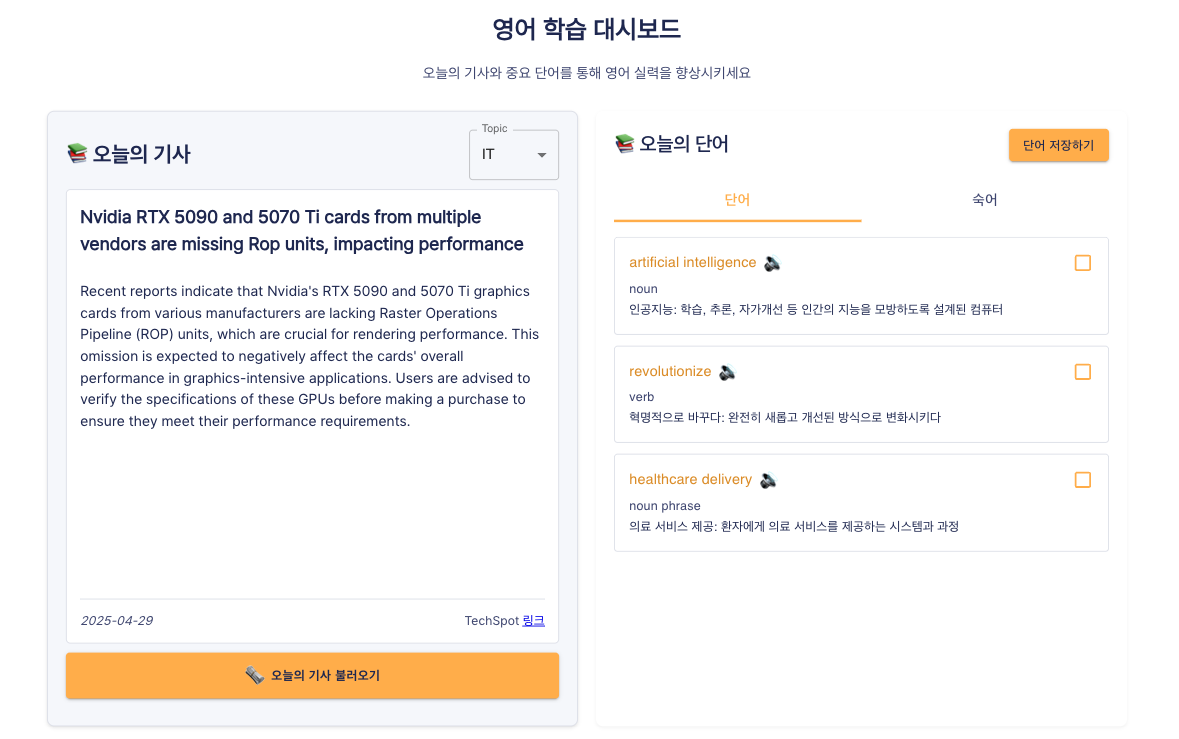
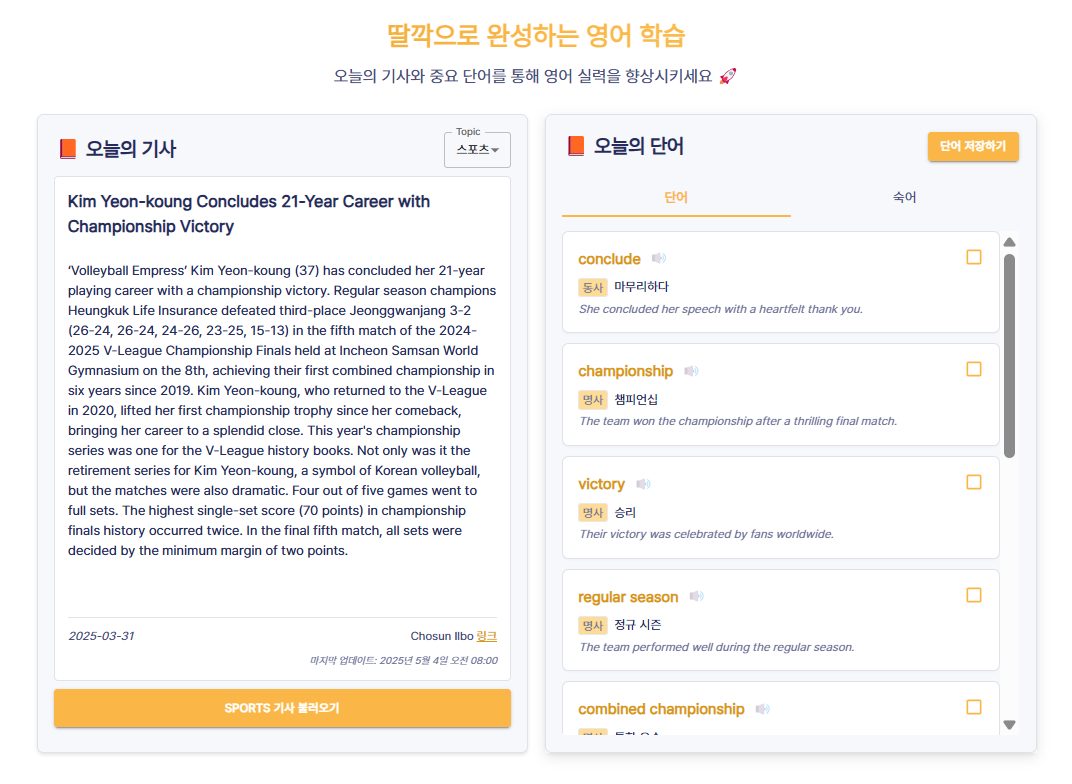
style: 랜딩페이지 미리보기 이미지 업데이트

diff --git a/src/pages/LandingPage/LandingPage.jsx b/src/pages/LandingPage/LandingPage.jsx
@@ -13,6 +13,7 @@ import logoWhite from "./images/logo-white.png";
 import iphoneMain from "./images/white-iphone.png";
 import LandingBanner from "./components/LandingBanner";
 import GetStartedButton from "./components/GetStartedButton";
+import vocaTestImg from "./images/voca-test-img.png"
 
 
 const cardData = [
@@ -237,7 +238,7 @@ const LandingPage = () => {
                 fontWeight="bold"
                 fontSize="1em"
               >
-                뉴스 기반 학습 페이지
+                뉴스 기반 학습 미리보기
               </Typography>
             </Box>
 
@@ -269,6 +270,36 @@ const LandingPage = () => {
                 fontSize="1em"
               >
                 단어장 기능 미리보기
+              </Typography>
+            </Box>
+            {/* 단어장 테스트 미리보기 */}
+            <Box sx={{ textAlign: "center", my: 1 }}>
+              <Box
+                component="img"
+                src={vocaTestImg}
+                alt="단어장페이지"
+                onClick={() => setOpenImage(vocaTestImg)}
+                sx={{
+                  cursor: "pointer",
+                  width: { xs: "100%", sm: 400 },
+                  height: { xs: 200, sm: 250 },
+                  borderRadius: 3,
+                  boxShadow: 3,
+                  mb: 1,
+                  transition: "all 0.3s ease-in-out",
+                  "&:hover": {
+                    transform: "scale(1.05)",
+                    boxShadow: 6,
+                  },
+                }}
+              />
+              <Typography
+                variant="body2"
+                color="var(--color-primary)"
+                fontWeight="bold"
+                fontSize="1em"
+              >
+                단어 테스트 미리보기
               </Typography>
             </Box>
           </Box>
